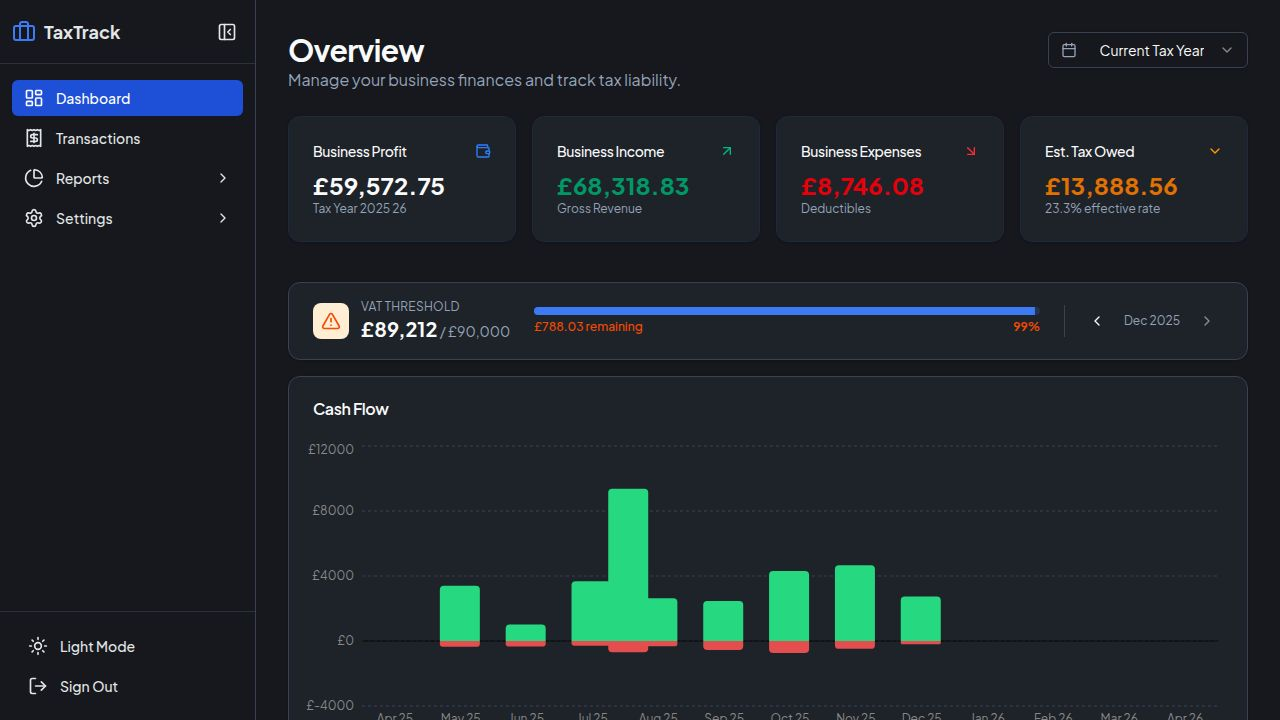
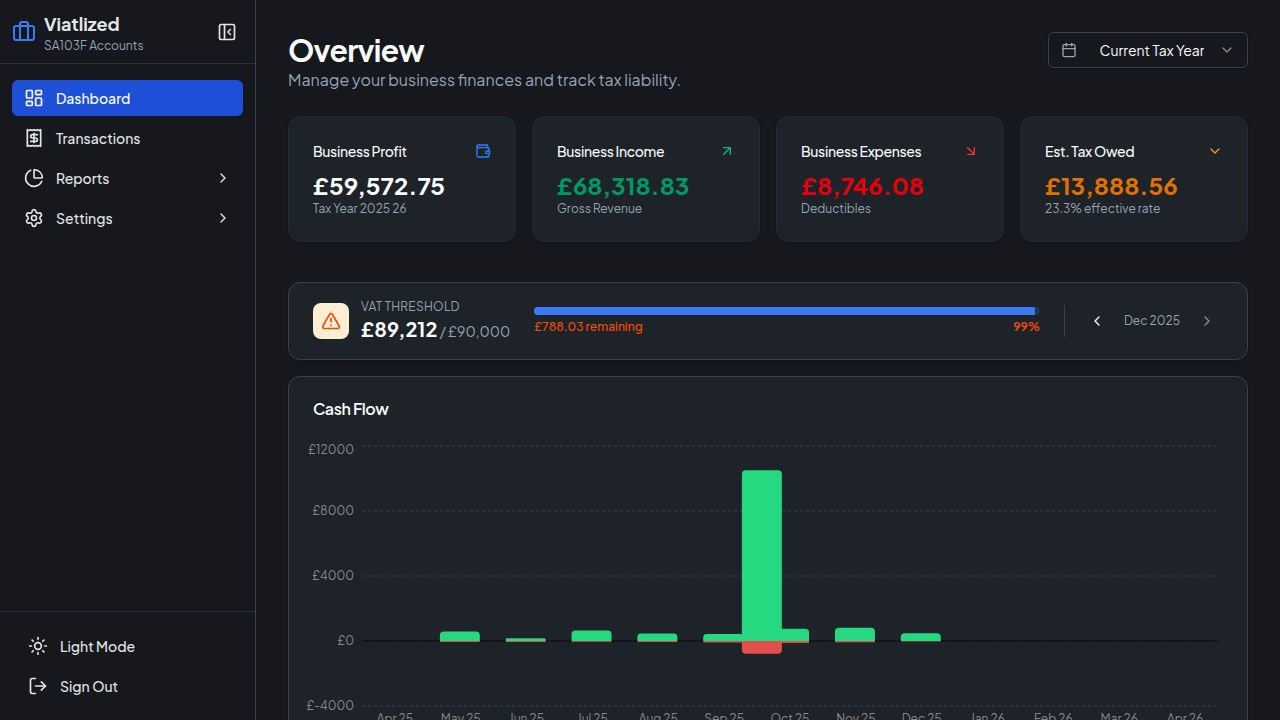
Update application name and branding across all user-facing elements
Update application title, meta tags, sidebar, and report generation text to reflect the new name "Viatlized - SA103F Accounts".

Replit-Commit-Author: Agent
Replit-Commit-Session-Id: c7eee8b1-1d73-4f42-873e-551413c8728e
Replit-Commit-Checkpoint-Type: intermediate_checkpoint
Replit-Commit-Event-Id: c0d8df00-68f4-4edd-935b-ba8067e50c45
Replit-Commit-Screenshot-Url: https://storage.googleapis.com/screenshot-production-us-central1/74a6994d-dad0-4559-8ef7-1f8cbc5ddf37/c7eee8b1-1d73-4f42-873e-551413c8728e/Du99kG7
Replit-Helium-Checkpoint-Created: true

Changed region(s): [[0.3438, 0.6417, 0.75, 0.9167], [0.0312, 0.0306, 0.0938, 0.0917]]

diff --git a/client/index.html b/client/index.html
@@ -4,14 +4,15 @@
     <meta charset="UTF-8" />
     <meta name="viewport" content="width=device-width, initial-scale=1.0, maximum-scale=1" />
 
-    <meta property="og:title" content="TaxTrack - Business Finance Manager" />
-    <meta property="og:description" content="Track your business transactions, estimate taxes, and manage your finances with ease." />
+    <title>Viatlized - SA103F Accounts</title>
+    <meta property="og:title" content="Viatlized - SA103F Accounts" />
+    <meta property="og:description" content="UK sole trader accounting app with SA103F expense categorization, tax calculations, and HMRC compliance." />
     <meta property="og:type" content="website" />
     <meta property="og:image" content="https://replit.com/public/images/opengraph.png" />
     <meta name="twitter:card" content="summary_large_image" />
     <meta name="twitter:site" content="@replit" />
-    <meta name="twitter:title" content="TaxTrack - Business Finance Manager" />
-    <meta name="twitter:description" content="Track your business transactions, estimate taxes, and manage your finances with ease." />
+    <meta name="twitter:title" content="Viatlized - SA103F Accounts" />
+    <meta name="twitter:description" content="UK sole trader accounting app with SA103F expense categorization, tax calculations, and HMRC compliance." />
     <meta name="twitter:image" content="https://replit.com/public/images/opengraph.png" />
 
     <link rel="icon" type="image/png" href="/favicon.png" />

diff --git a/client/src/components/layout/Sidebar.tsx b/client/src/components/layout/Sidebar.tsx
@@ -96,7 +96,12 @@ export function Sidebar({ collapsed, onToggle }: SidebarProps) {
       <div className="flex h-16 items-center border-b border-sidebar-border px-3 justify-between">
         <div className={cn("flex items-center", collapsed && "justify-center w-full")}>
           <Briefcase className={cn("h-6 w-6 text-primary", !collapsed && "mr-2")} />
-          {!collapsed && <span className="text-lg font-bold">TaxTrack</span>}
+          {!collapsed && (
+            <div className="flex flex-col leading-tight">
+              <span className="text-lg font-bold">Viatlized</span>
+              <span className="text-xs text-muted-foreground">SA103F Accounts</span>
+            </div>
+          )}
         </div>
         {!collapsed && (
           <button

diff --git a/client/src/components/reports/SA103FReport.tsx b/client/src/components/reports/SA103FReport.tsx
@@ -540,7 +540,7 @@ export function SA103FReport({ transactions, yearLabel }: SA103FReportProps) {
           </table>
 
           <p style="margin-top: 30px; font-size: 10px; color: #999; text-align: center;">
-            Generated by TaxTrack on ${new Date().toLocaleDateString('en-GB')} | This is an estimate only - consult a qualified accountant for tax advice
+            Generated by Viatlized on ${new Date().toLocaleDateString('en-GB')} | This is an estimate only - consult a qualified accountant for tax advice
           </p>
         </body>
         </html>

diff --git a/replit.md b/replit.md
@@ -1,8 +1,8 @@
-# TaxTrack - Business Finance Manager
+# Viatlized - SA103F Accounts
 
 ## Overview
 
-TaxTrack is a business finance management application designed to help UK sole traders and small business owners track transactions, categorize expenses, and estimate tax liabilities. The app provides a dashboard for viewing financial summaries, managing transactions, generating reports, and calculating UK income tax estimates.
+Viatlized is a UK sole trader accounting application designed to help small business owners track transactions, categorize expenses using HMRC SA103F box codes, and estimate tax liabilities. The app provides a dashboard for viewing financial summaries, managing transactions, generating reports, and calculating UK income tax estimates.
 
 ## User Preferences
 
